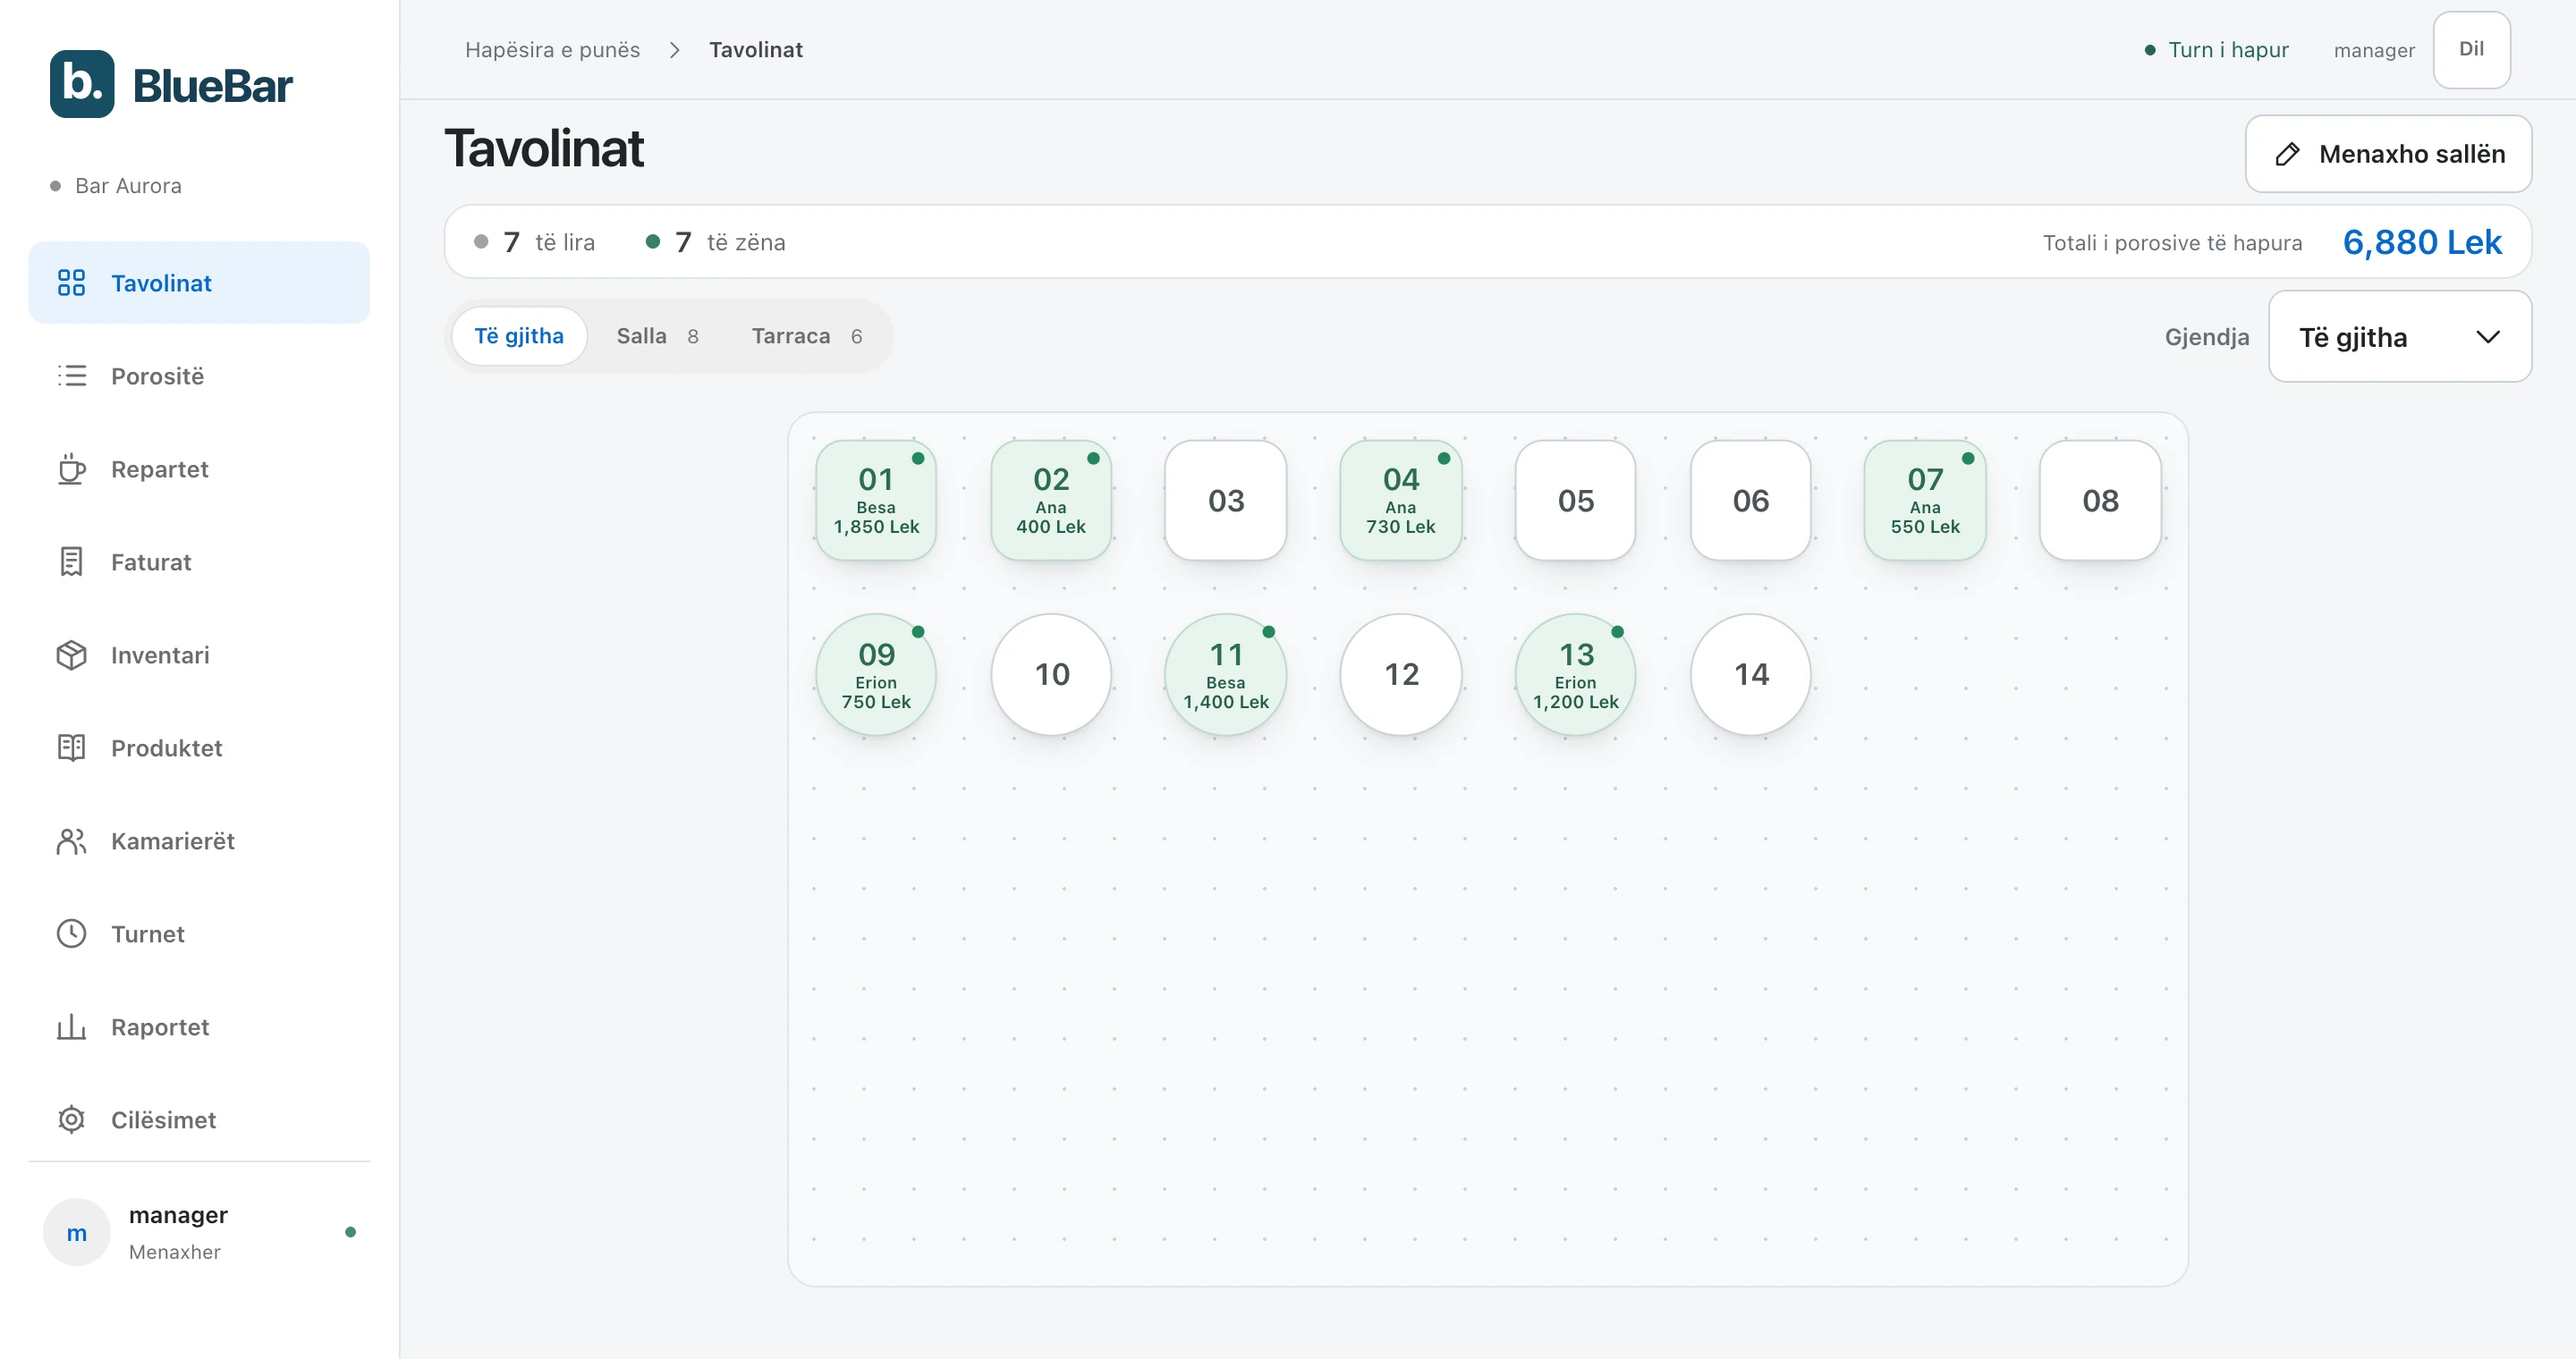
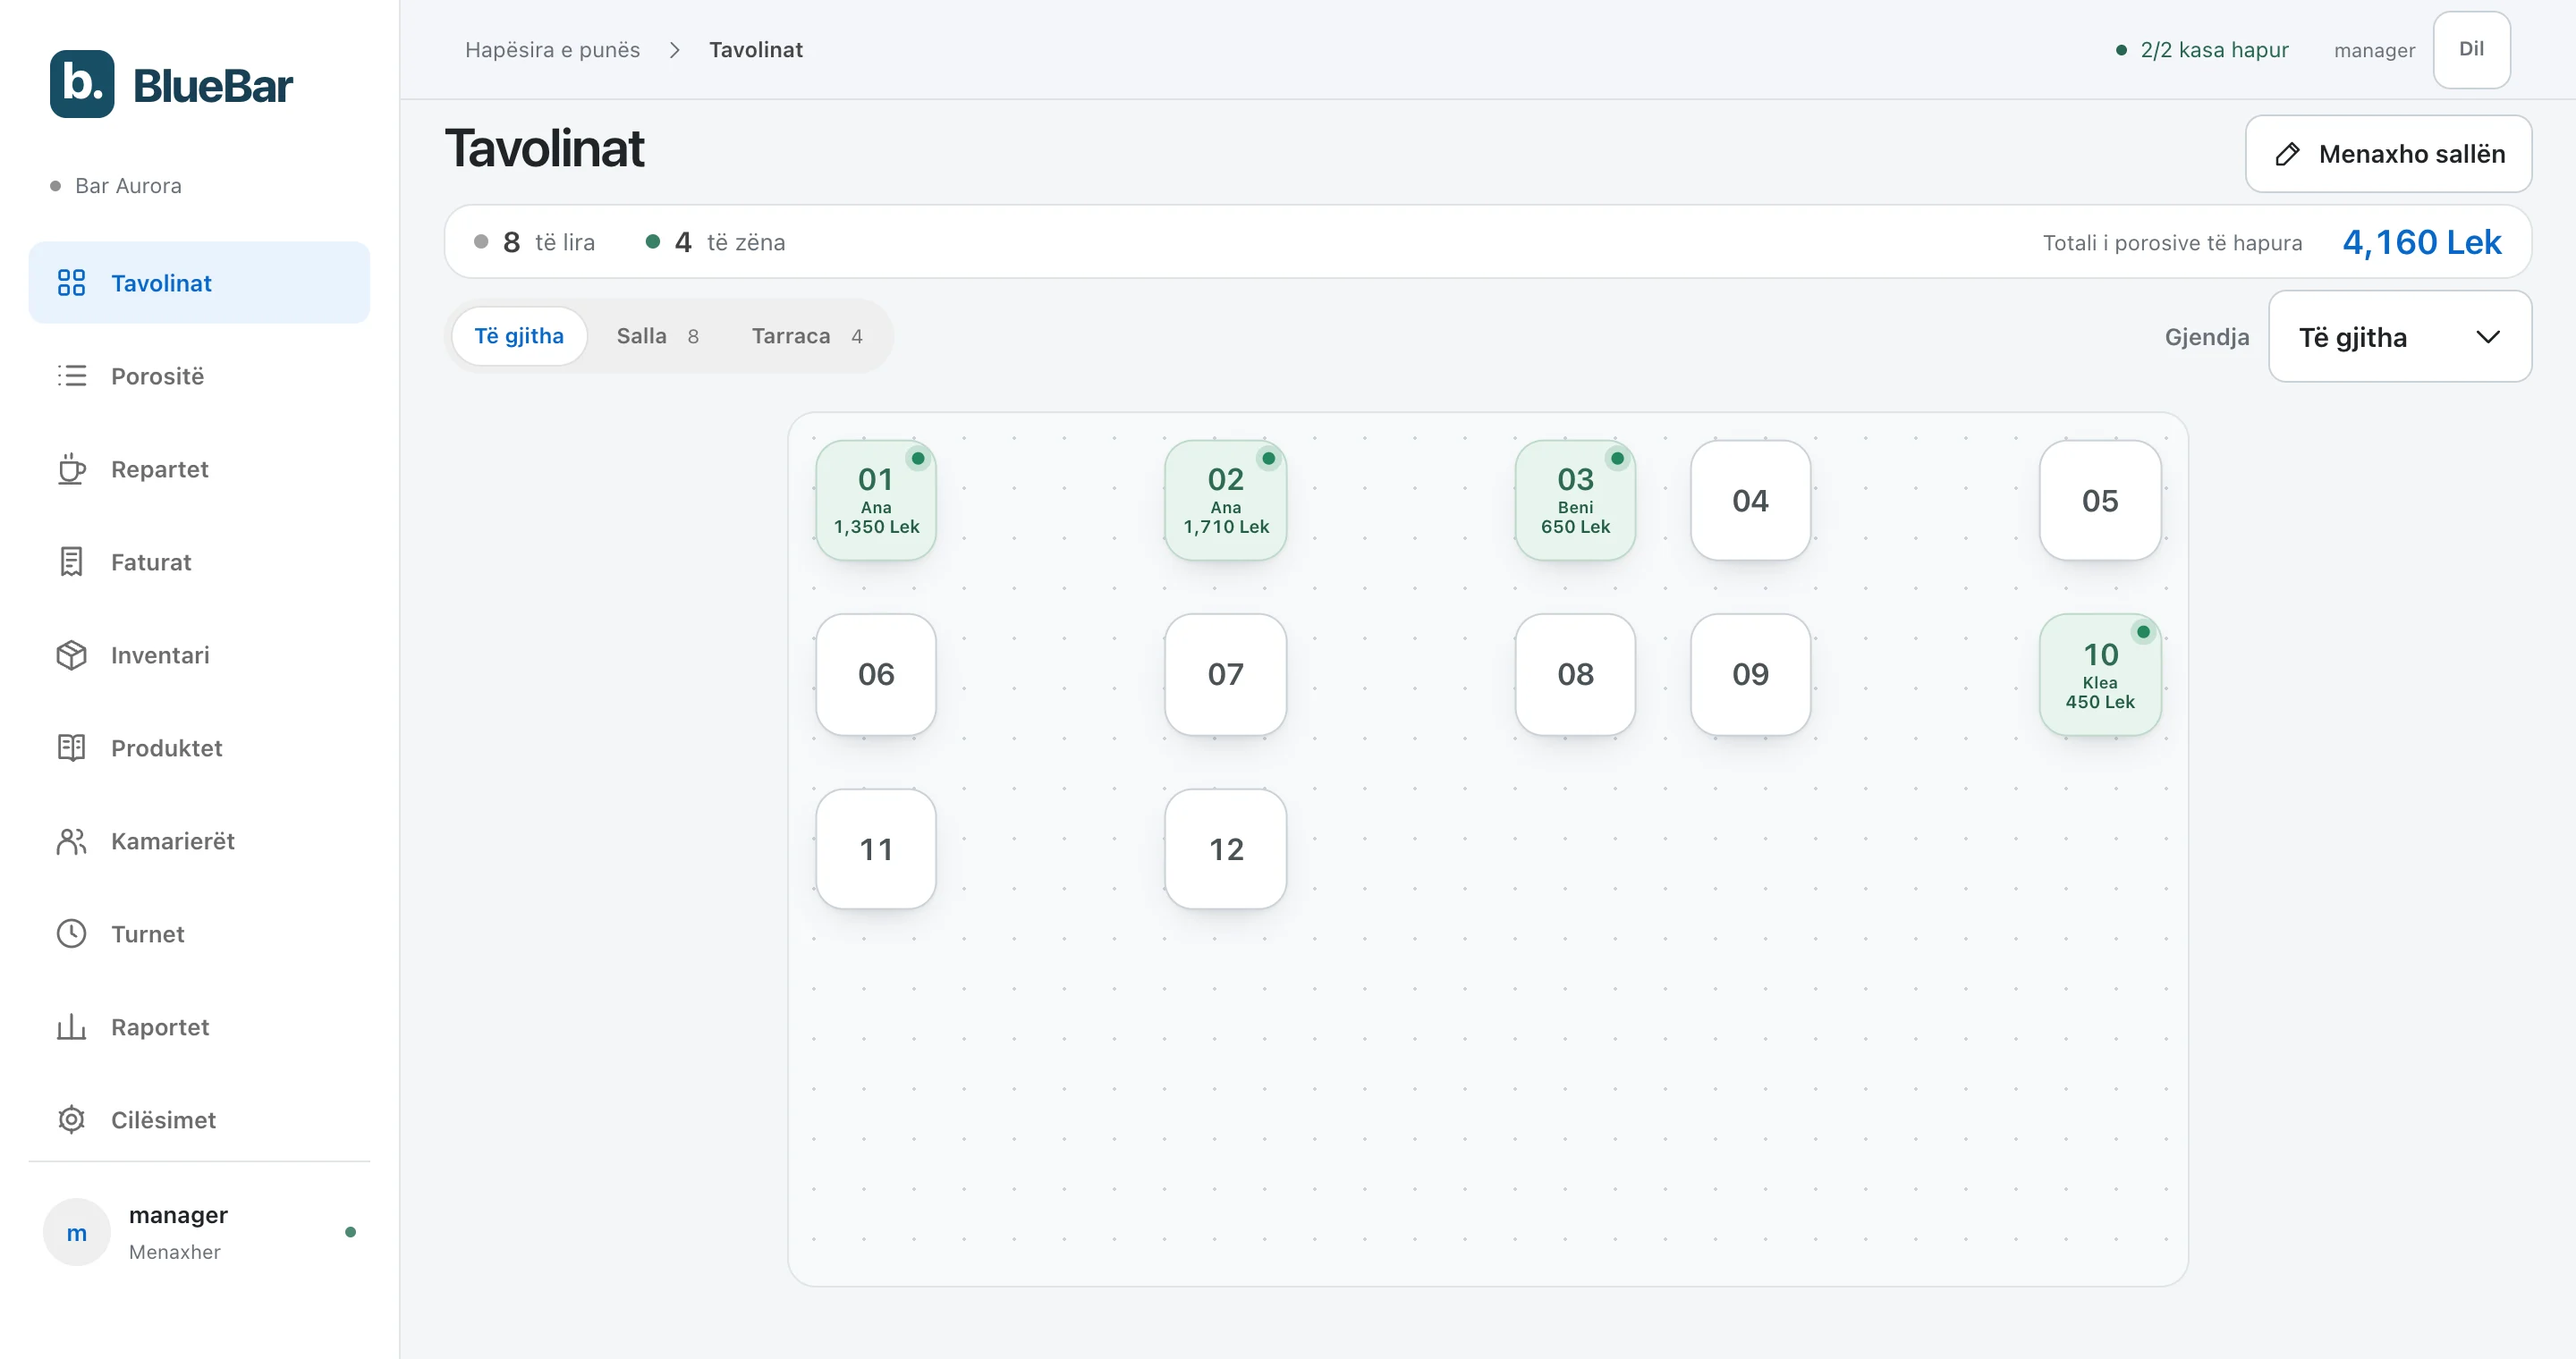
The landing shows the app as it is today: real product photos, the current slips and Bar Aurora's data

diff --git a/src/Landing.jsx b/src/Landing.jsx
@@ -50,7 +50,7 @@ const features = (t) => [
       ["Search the menu, change quantities, add notes like “no sugar”", "Or just say it: “two macchiatos and a water”", "On the second round only the new items are sent"],
       ["Kërkon në menu, ndryshon sasinë, shton shënime si “pa sheqer”", "Ose e thotë me zë: “dy makiato dhe një ujë”", "Në raundin e dytë dërgohen vetëm artikujt e rinj"],
     ),
-    img: ["/landing/page-porosia.webp", 2476, 1700, t("Table 10's order: menu on the left, order on the right, ready to send to the stations.", "Porosia e Tavolinës 10: menuja majtas, porosia djathtas, gati për t’u dërguar në repartet.")],
+    img: ["/landing/page-porosia.webp", 2464, 1664, t("Table 07's order: the menu with photos on the left, the order on the right, ready to send to the stations.", "Porosia e Tavolinës 07: menuja me foto majtas, porosia djathtas, gati për t’u dërguar në repartet.")],
   },
   {
     id: "repartet", tab: t("Bar and kitchen", "Bari dhe kuzhina"),
@@ -59,7 +59,7 @@ const features = (t) => [
       ["Every item goes straight to its own station", "The kitchen taps “Ready” and the waiter sees it on their phone", "Prints directly, without the browser's print window"],
       ["Çdo artikull shkon vetë te reparti i vet", "Kuzhina shtyp “Gati” dhe kamarieri e sheh në telefon", "Printon direkt, pa dritaren e printimit të shfletuesit"],
     ),
-    img: ["/landing/page-repartet.webp", 2354, 1109, t("Slips waiting for the Bar and the Kitchen.", "Fletët në pritje për Barin dhe Kuzhinën.")],
+    img: ["/landing/page-repartet.webp", 2338, 1038, t("Slips waiting at the bar, the kitchen and the pizza oven.", "Fletët në pritje te bari, kuzhina dhe furra e picave.")],
   },
   {
     id: "faturat", tab: t("Payments", "Pagesat"),
@@ -68,7 +68,7 @@ const features = (t) => [
       ["BlueBar works out the change, not the waiter in their head", "Fiscalization through BlueBill", "A manager can correct a closed bill, but has to write down why"],
       ["Kusurin e llogarit BlueBar, jo kamarieri me mend", "Fiskalizim përmes BlueBill", "Menaxheri mund ta korrigjojë një faturë të mbyllur, por duhet të shkruajë arsyen"],
     ),
-    img: ["/landing/page-faturat.webp", 2354, 1267, t("The bill register with bill D-8 open.", "Regjistri i faturave me faturën D-8 të hapur.")],
+    img: ["/landing/page-faturat.webp", 2338, 1482, t("The bill register with the day's paid bills, cash and card.", "Regjistri i faturave me faturat e paguara të ditës, cash dhe kartë.")],
   },
   {
     id: "raportet", tab: t("Reports", "Raportet"),
@@ -77,7 +77,7 @@ const features = (t) => [
       ["Sales by hour, by waiter and by product", "Cash and card kept apart", "One CSV for your accountant, in one click"],
       ["Shitjet sipas orës, kamarierit dhe produktit", "Cash dhe kartë veç e veç", "Një CSV për kontabilistin, me një klik"],
     ),
-    img: ["/landing/page-raportet.webp", 2354, 921, t("The day's report: sales, cash, card and best sellers.", "Raporti i ditës: shitjet, cash, kartë dhe produktet më të shitura.")],
+    img: ["/landing/page-raportet.webp", 2338, 1532, t("The day's report: sales, cash, card and best sellers.", "Raporti i ditës: shitjet, cash, kartë dhe produktet më të shitura.")],
   },
   {
     id: "menuja", tab: t("Online menu", "Menuja online"),
@@ -231,8 +231,8 @@ export function Landing() {
               </div>
             </div>
             <div className="lp-hero-media">
-              <div className="lp-browser"><div className="lp-browser-bar" aria-hidden="true"><i /><i /><i /></div><img src="/landing/app-tavolinat.webp" width="2880" height="1520" alt={t("BlueBar: Bar Aurora's floor, 7 occupied tables with their waiter and amount.", "BlueBar: salla e Bar Aurora, 7 tavolina të zëna me kamarierin dhe shumën.")} fetchPriority="high" /></div>
-              <img className="lp-phone lp-hero-phone" src="/landing/phone-porosia.webp" width="1170" height="2100" alt={t("BlueBar on the waiter's phone: Table 11's order.", "BlueBar në telefonin e kamarierit: porosia e Tavolinës 11.")} />
+              <div className="lp-browser"><div className="lp-browser-bar" aria-hidden="true"><i /><i /><i /></div><img src="/landing/app-tavolinat.webp" width="2880" height="1520" alt={t("BlueBar: Bar Aurora's floor, 4 occupied tables with their waiter and amount.", "BlueBar: salla e Bar Aurora, 4 tavolina të zëna me kamarierin dhe shumën.")} fetchPriority="high" /></div>
+              <img className="lp-phone lp-hero-phone" src="/landing/phone-porosia.webp" width="1170" height="2100" alt={t("BlueBar on the waiter's phone: Table 01's order.", "BlueBar në telefonin e kamarierit: porosia e Tavolinës 01.")} />
             </div>
           </div>
           <dl className="lp-wrap lp-facts">{facts(t).map(([big, small]) => <div key={big}><dt>{big}</dt><dd>{small}</dd></div>)}</dl>
